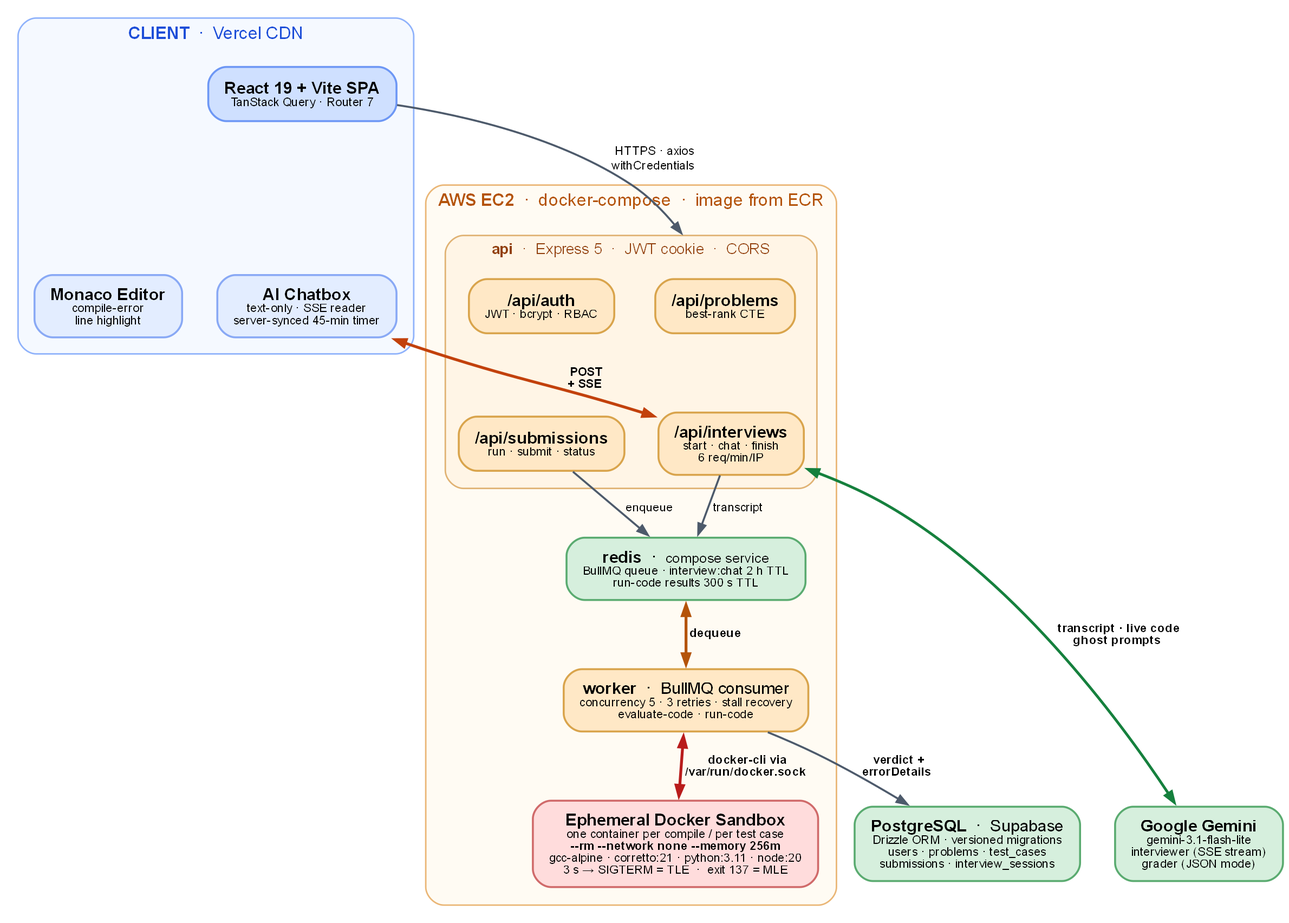
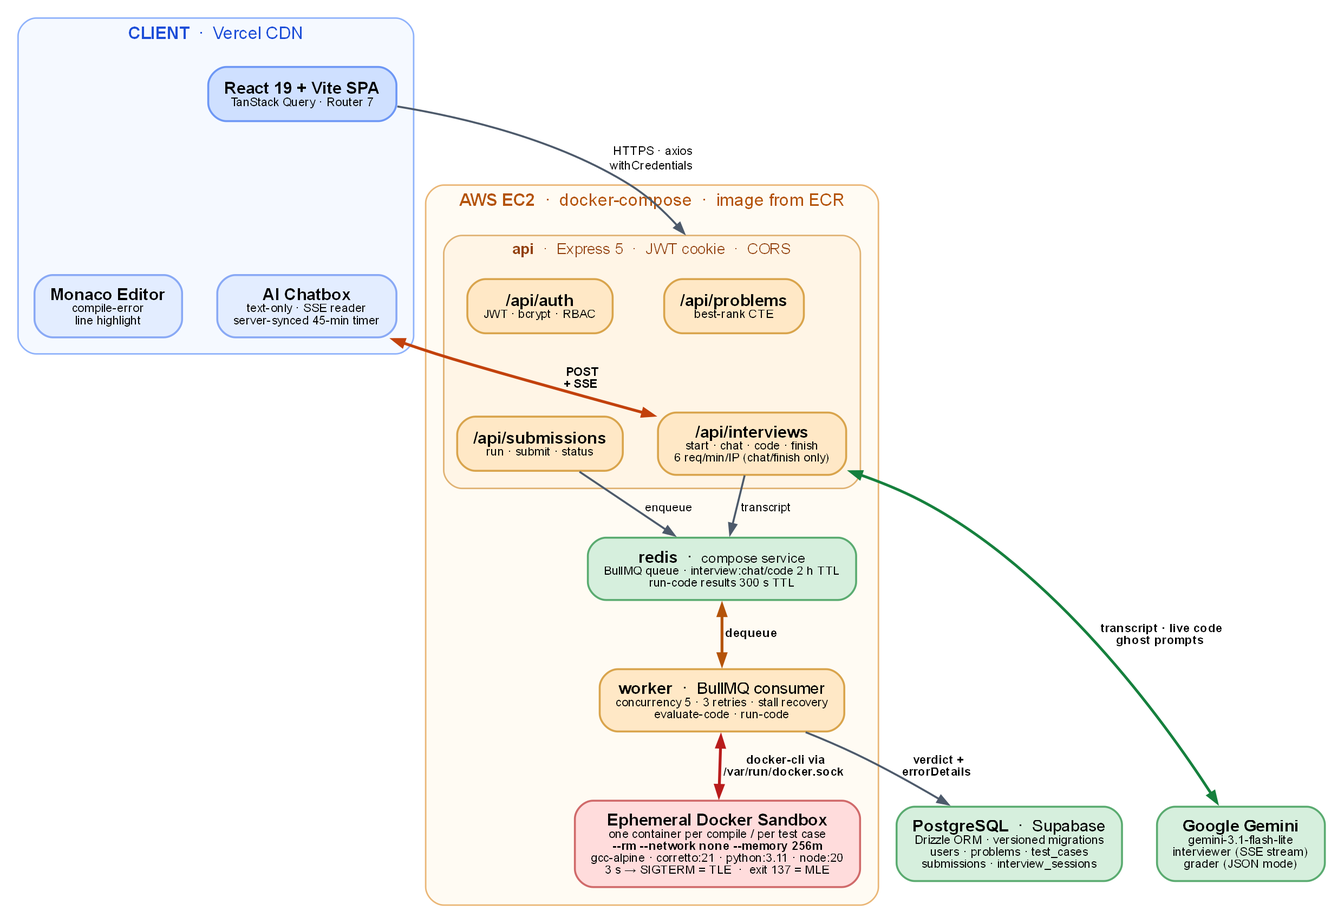
feat: added editor code and language rehydration upon reload (now, the code progress is also debounced by the frontend and auto-saved in the redis queue), updated the docs properly to reflect the changes done so far

diff --git a/backend/src/modules/interviews/interview.controller.js b/backend/src/modules/interviews/interview.controller.js
@@ -4,7 +4,7 @@ import { db } from "../../database/db_connector.js";
 import { problems, submissions, interviewSessions } from "../../database/schema.js";
 import { submissionQueue } from '../../queues/submissionQueue.js';
 
-import { appendChatMessage, getChatHistory, clearChatHistory } from "./cache.service.js";
+import { appendChatMessage, getChatHistory, clearChatHistory, getEditorState, saveEditorState, clearEditorState } from "./cache.service.js";
 import { getInterviewerStream } from "./llm.service.js";
 import { evaluateInterview, calculateGamifiedRank } from "./grading.service.js";
 
@@ -45,11 +45,15 @@ export const startInterview = async (req, res) => {
 
         if (existingSession && !isStale) {
             const chatHistory = await getChatHistory(existingSession.sessionId);
+            // The editor's contents are autosaved separately from the chat transcript, so a reload restores the candidate's code, not just the chat.
+            const editorState = await getEditorState(existingSession.sessionId);
             return res.status(200).json({
                 success: true,
                 sessionId: existingSession.sessionId,
                 startedAt: existingSession.startedAt,
                 chatHistory,
+                code: editorState?.code ?? null,
+                language: editorState?.language ?? null,
                 message: "Resumed existing interview session."
             });
         }
@@ -78,6 +82,8 @@ export const startInterview = async (req, res) => {
             sessionId: sessionId,
             startedAt: newSession.startedAt,
             chatHistory: [],
+            code: null,
+            language: null,
             message: "Interview session started successfully."
         });
     }
@@ -175,6 +181,40 @@ export const streamInterviewChat = async (req, res) => {
         if (!res.writableEnded) {
             res.end();
         }
+    }
+};
+
+/**
+ * Autosaves the candidate's live editor contents (code + language) so that a page reload
+ * or dropped connection can restore exactly what they were working on, not just the chat
+ * transcript. Called by the frontend on a debounce, not on every keystroke.
+ */
+export const saveCode = async (req, res) => {
+    try {
+        const userId = req.user.userId;
+        const { sessionId, problemId, code, language } = req.body;
+        if (!sessionId || !problemId || typeof code !== "string" || !language) {
+            return res.status(400).json({ error: "Missing required fields: sessionId, problemId, code, or language." });
+        }
+
+        const session = await db.query.interviewSessions.findFirst({
+            where: and(
+                eq(interviewSessions.sessionId, sessionId),
+                eq(interviewSessions.userId, userId),
+                eq(interviewSessions.problemId, problemId)
+            )
+        });
+        if (!session) {
+            return res.status(404).json({ error: "Interview session not found." });
+        }
+
+        await saveEditorState(sessionId, code, language);
+
+        return res.status(200).json({ success: true });
+    }
+    catch (error) {
+        console.error("Error in saveCode in Interview Controller:", error);
+        return res.status(500).json({ error: "An internal server error occurred while saving the editor state." });
     }
 };
 
@@ -306,6 +346,7 @@ export const finishInterviewAndGrade = async (req, res) => {
 
         // Cleaning up the Redis cache
         await clearChatHistory(sessionId);
+        await clearEditorState(sessionId);
 
         return res.status(200).json({
             success: true,

diff --git a/frontend/src/features/problems/pages/Arena.jsx b/frontend/src/features/problems/pages/Arena.jsx
@@ -52,6 +52,8 @@ const Arena = () => {
   const [isInterviewActive, setIsInterviewActive] = useState(false);
   const chatBoxRef = useRef(null); // Ref to shoot Ghost Prompts into the Chatbox
   const idleTimerRef = useRef(null); // Ref to store the inactivity timer
+  const codeSaveTimerRef = useRef(null); // Ref to store the debounced code-autosave timer
+  const sessionInitStartedRef = useRef(false); // Guards against StrictMode's double-invoke of the init effect in dev
   const [lastActivityTime, setLastActivityTime] = useState(() => Date.now()); // New state to track any user activity
 
   // --- Editor & Execution State ---
@@ -102,12 +104,25 @@ const Arena = () => {
         setSessionId(payload.sessionId);
         setSessionStartedAt(payload.startedAt || new Date().toISOString());
         setInitialChatHistory(Array.isArray(payload.chatHistory) ? payload.chatHistory : []);
+        // Restore the candidate's last autosaved editor contents on resume, so a reload
+        // brings back their code, not just the chat transcript.
+        if (payload.code) {
+          setCode(payload.code);
+          if (payload.language) {
+            setLanguage(payload.language);
+          }
+        }
         setIsInterviewActive(true);
       } catch (err) {
         console.error("Failed to start interview session", err);
       }
     };
-    if (problemId && !sessionId) {
+    // sessionInitStartedRef guards against React StrictMode's dev-only double-invoke of
+    // this effect: without it, both synchronous invocations would see sessionId as null
+    // and race two /start calls, creating two separate interview_sessions rows and
+    // leaving resume pointed at whichever one didn't actually get used.
+    if (problemId && !sessionId && !sessionInitStartedRef.current) {
+      sessionInitStartedRef.current = true;
       initializeSession();
     }
   }, [problemId, sessionId]);
@@ -116,6 +131,25 @@ const Arena = () => {
   const handleUserActivity = () => {
     setLastActivityTime(Date.now());
   };
+
+  // Editor Autosave: debounce writes of the live code + language to the backend so a
+  // reload (or the /start resume path) can restore exactly what the candidate was typing,
+  // not just the chat transcript. Debounced rather than saved on every keystroke to avoid
+  // hammering the API while the candidate is actively typing.
+  useEffect(() => {
+    if (!isInterviewActive || !sessionId) return;
+
+    if (codeSaveTimerRef.current) {
+      clearTimeout(codeSaveTimerRef.current);
+    }
+
+    codeSaveTimerRef.current = setTimeout(() => {
+      apiClient.post('/api/interviews/code', { sessionId, problemId, code, language })
+        .catch((err) => console.error("Failed to autosave editor state", err));
+    }, 2000); // 2 seconds after the candidate stops typing or changes language
+
+    return () => clearTimeout(codeSaveTimerRef.current);
+  }, [code, language, isInterviewActive, sessionId, problemId]);
 
   // Inactivity Ghost Prompt: If the user hasn't typed for 5 minutes, check in.
   useEffect(() => {
@@ -412,7 +446,7 @@ const Arena = () => {
           </button>
           <span className="text-gray-500">|</span>
           <span className="text-white font-bold tracking-wide">
-            <span className="text-blue-400">Ascend</span> — Mock Interview Mode
+            <span className="text-blue-400">Ascend</span>: Mock Interview Mode
           </span>
         </div>
 

diff --git a/backend/src/modules/interviews/cache.service.js b/backend/src/modules/interviews/cache.service.js
@@ -89,9 +89,83 @@ export const clearChatHistory = async (sessionId) => {
 
     try {
         await redisConnection.del(key);
-    } 
+    }
     catch (error) {
         // This is a non-fatal error for the user, but critical for system health monitoring.
         console.error(`CRITICAL: Failed to clear chat history for session ${sessionId}. This may indicate a Redis connectivity issue.`, error);
     }
 }
+
+/**
+ * Generates a consistent Redis key for an interview session's editor state.
+ * @param {string} sessionId
+ * @returns {string} The Redis key.
+ */
+const generateRedisCodeKey = (sessionId) => `interview:code:${sessionId}`;
+
+/**
+ * Fetches the last autosaved editor state (code + language) from Redis.
+ * @param {string} sessionId - The unique identifier for the interview session.
+ * @returns {Promise<{code: string, language: string}|null>}
+ */
+export const getEditorState = async (sessionId) => {
+    if (!sessionId) {
+        console.error("getEditorState called without a sessionId.");
+        return null;
+    }
+
+    const key = generateRedisCodeKey(sessionId);
+
+    try {
+        const data = await redisConnection.get(key);
+        return data ? JSON.parse(data) : null;
+    }
+    catch (error) {
+        console.error(`Error fetching or parsing editor state for sessionId ${sessionId}:`, error);
+        return null;
+    }
+};
+
+/**
+ * Autosaves the candidate's current editor contents to Redis, so a page reload can
+ * restore exactly what they were typing, not just the chat transcript.
+ * @param {string} sessionId - The unique identifier for the interview session.
+ * @param {string} code - The live contents of the Monaco editor.
+ * @param {string} language - The currently selected language.
+ */
+export const saveEditorState = async (sessionId, code, language) => {
+    if (!sessionId || typeof code !== "string" || !language) {
+        console.error("saveEditorState called with missing parameters.", { sessionId, hasCode: typeof code === "string", language });
+        return;
+    }
+
+    const key = generateRedisCodeKey(sessionId);
+
+    try {
+        await redisConnection.set(key, JSON.stringify({ code, language }), "EX", INTERVIEW_TTL);
+    }
+    catch (error) {
+        console.error(`Error saving editor state for sessionId ${sessionId}:`, error);
+        throw new Error("Failed to save editor state to cache.");
+    }
+};
+
+/**
+ * Deletes the autosaved editor state from Redis for a given session.
+ * @param {string} sessionId - The unique identifier for the interview session.
+ */
+export const clearEditorState = async (sessionId) => {
+    if (!sessionId) {
+        console.warn("clearEditorState called with no sessionId.");
+        return;
+    }
+
+    const key = generateRedisCodeKey(sessionId);
+
+    try {
+        await redisConnection.del(key);
+    }
+    catch (error) {
+        console.error(`CRITICAL: Failed to clear editor state for session ${sessionId}. This may indicate a Redis connectivity issue.`, error);
+    }
+};

diff --git a/backend/src/modules/interviews/interview.routes.js b/backend/src/modules/interviews/interview.routes.js
@@ -1,7 +1,7 @@
 import express from 'express';
 import rateLimit from 'express-rate-limit';
 import {requireAuth} from "../../middlewares/auth.middleware.js";
-import {startInterview, streamInterviewChat, finishInterviewAndGrade} from "./interview.controller.js";
+import {startInterview, streamInterviewChat, finishInterviewAndGrade, saveCode} from "./interview.controller.js";
 
 const router = express.Router();
 
@@ -16,8 +16,11 @@ const interviewLimiter = rateLimit({
     legacyHeaders: false, 
 });
 
-// Route to initialize the interview session (Lightweight, standard auth)
-router.post("/start", requireAuth, startInterview);
+// Route to initialize the interview session
+router.post("/start", requireAuth, interviewLimiter, startInterview);
+
+// Route to autosave the live editor contents (No need to rate limit this, since no AI call is involved; and the frontend already debounces it)
+router.post("/code", requireAuth, saveCode);
 
 // Chatting route using Server-Sent Events (SSE) (Protected by Rate Limiter)
 router.post("/chat", requireAuth, interviewLimiter, streamInterviewChat);

diff --git a/docs/HLD.md b/docs/HLD.md
@@ -1,12 +1,12 @@
 # **Ascend: The Next Generation Interviewer — High-Level Design (HLD)**
 
-*Version 2.0 — AI Interviewer Integration, updated with session resilience (server-authoritative timer, resumable sessions on reload) and adaptive interview pacing. This document supersedes the V1 HLD and describes the system as it is currently deployed.*
+*Version 2.0 — AI Interviewer Integration, updated with session resilience (server-authoritative timer, resumable sessions on reload including the candidate's chat history and code editor state) and adaptive interview pacing. This document supersedes the V1 HLD and describes the system as it is currently deployed.*
 
 ## **0\. High-Level Architecture Diagram**
 
 ![Ascend — end-to-end system architecture.](architecture.png)
 
-The diagram reads top to bottom as a request flows through the system. The **React client** on Vercel reaches the **Express API** over credentialed HTTPS, except for the interview conversation, which is a POST that stays open as a Server-Sent Events stream (the orange path). Anything that executes code is never run inline: `/api/submissions` and `/api/interviews` both write to **Redis**, which serves simultaneously as the BullMQ queue, the live interview transcript store, and the run-result cache. The **worker** dequeues and drives the **ephemeral Docker sandboxes** through the host's Docker socket — the red path, and the only place in the system where untrusted code executes.
+The diagram reads top to bottom as a request flows through the system. The **React client** on Vercel reaches the **Express API** over credentialed HTTPS, except for the interview conversation, which is a POST that stays open as a Server-Sent Events stream (the orange path). Anything that executes code is never run inline: `/api/submissions` and `/api/interviews` both write to **Redis**, which serves simultaneously as the BullMQ queue, the live interview transcript and editor-state store, and the run-result cache. The **worker** dequeues and drives the **ephemeral Docker sandboxes** through the host's Docker socket — the red path, and the only place in the system where untrusted code executes.
 
 Two boundaries are worth reading carefully. Everything inside the **AWS EC2** box is a `docker-compose` service on a single instance, including Redis — only PostgreSQL and Gemini are genuinely external. And the sandbox is the sole component reached via `/var/run/docker.sock`; the API container has no access to the Docker daemon at all.
 
@@ -157,8 +157,9 @@ Every route below is authenticated except the health check and the two public au
 
 | Endpoint | HTTP Method | Purpose   |
 | :---- | :---- | :---- |
-| /api/interviews/start | POST | Create a new `interview_sessions` row and return the `sessionId` that the frontend persists and attaches to every subsequent call. |
+| /api/interviews/start | POST | Resume an existing unfinished session for this user + problem if one exists — returning its `sessionId`, `startedAt`, saved chat transcript, and saved editor state (§5.1) — otherwise create a new `interview_sessions` row. Rate limited. |
 | /api/interviews/chat | POST | **Server-Sent Events stream.** Appends the candidate's message to the Redis transcript, calls Gemini with the full history plus the live editor contents, and streams the reply back token-by-token. Rate limited. |
+| /api/interviews/code | POST | Autosaves the candidate's live editor contents (code + language) to Redis on a debounce, so a reload restores exactly what they were typing (§6.3). Not rate limited — it's a cheap cache write, not an AI call. |
 | /api/interviews/finish | POST | Snapshot the final code, guarantee that a graded verdict exists, run the AI grader, map the score to a rank, and atomically persist everything. Rate limited. |
 
 ### **3.5 System**
@@ -223,9 +224,9 @@ This is the defining addition of V2. The Coding Arena is no longer a solitary ed
 
 ### **5.1 Session Lifecycle**
 
-1. **Start (with resume).** The candidate opens a problem and the frontend calls `POST /api/interviews/start` on mount. The server first looks for an existing, unfinished session (`ended_at IS NULL`) for that user and problem. If one exists and is younger than the 45-minute session length plus a 5-minute grace window, it is handed back as-is — `sessionId`, `startedAt`, and the archived Redis transcript — so a page reload or a dropped connection resumes exactly where the candidate left off instead of silently starting over. Otherwise a fresh row is inserted into `interview_sessions` with `ended_at` NULL. A session past the grace window is closed out server-side (`ended_at` set, Redis cache cleared) before a new one is created, so an abandoned tab can never permanently block a candidate from starting again.  
-2. **Live phase.** Every chat turn hits `POST /api/interviews/chat`. The server verifies that the session belongs to the requesting user *and* the requested problem before touching the LLM. Each message appended to the Redis transcript is stamped with a `createdAt` timestamp and an `isGhost` flag (§5.3), which together drive both session-pacing awareness (§5.2) and faithful UI hydration on resume. The transcript lives in Redis under `interview:chat:<sessionId>` with a **2-hour TTL**, so a truly abandoned interview still evicts itself from memory automatically.  
-3. **Finish.** Triggered either by the 45-minute timer expiring or by the candidate pressing "End Interview". The server snapshots the code, grades the transcript, persists the result, and deletes the Redis key.
+1. **Start (with resume).** The candidate opens a problem and the frontend calls `POST /api/interviews/start` on mount. The server first looks for an existing, unfinished session (`ended_at IS NULL`) for that user and problem. If one exists and is younger than the 45-minute session length plus a 5-minute grace window, it is handed back as-is — `sessionId`, `startedAt`, the archived Redis transcript, and the last autosaved editor state (code + language, see step 2) — so a page reload or a dropped connection resumes exactly where the candidate left off, code included, instead of silently starting over. Otherwise a fresh row is inserted into `interview_sessions` with `ended_at` NULL. A session past the grace window is closed out server-side (`ended_at` set, Redis caches cleared) before a new one is created, so an abandoned tab can never permanently block a candidate from starting again.  
+2. **Live phase.** Every chat turn hits `POST /api/interviews/chat`. The server verifies that the session belongs to the requesting user *and* the requested problem before touching the LLM. Each message appended to the Redis transcript is stamped with a `createdAt` timestamp and an `isGhost` flag (§5.3), which together drive both session-pacing awareness (§5.2) and faithful UI hydration on resume. The transcript lives in Redis under `interview:chat:<sessionId>` with a **2-hour TTL**, so a truly abandoned interview still evicts itself from memory automatically. Independently, the Monaco editor's contents are autosaved to Redis on a debounce via `POST /api/interviews/code` — under `interview:code:<sessionId>`, same 2-hour TTL — so the candidate's code survives a reload the same way the chat transcript does (§6.3).  
+3. **Finish.** Triggered either by the 45-minute timer expiring or by the candidate pressing "End Interview". The server snapshots the code, grades the transcript, persists the result, and deletes both Redis keys.
 
 ### **5.2 The Interviewer: A Prompt-Enforced State Machine**
 
@@ -316,7 +317,11 @@ A 45-minute (2,700-second) countdown drives the session, computed on every tick 
 
 ### **6.3 Session Lifetime & Resume**
 
-The `sessionId` lives purely in React state — nothing about the live interview is trusted to browser storage. On mount, the Arena always calls `POST /api/interviews/start`, but the *server* decides whether that returns a brand-new session or resumes an existing one (§5.1): a page refresh, a dropped connection, or an accidental tab close no longer discards progress. On resume, the response's archived transcript rehydrates the chat UI (filtered down to real, candidate-facing turns — see §5.3) and its `startedAt` re-anchors the countdown timer (§6.2), so the Arena reconstructs itself to look exactly as it did before the reload. The authoritative transcript still lives in Redis and the session row in PostgreSQL; a session that goes untouched long enough to exceed the interview length plus a grace window is treated as abandoned and closed out rather than resumed indefinitely, and the Redis transcript is still reclaimed by its 2-hour TTL as a backstop.
+The `sessionId` lives purely in React state — nothing about the live interview is trusted to browser storage. On mount, the Arena always calls `POST /api/interviews/start`, but the *server* decides whether that returns a brand-new session or resumes an existing one (§5.1): a page refresh, a dropped connection, or an accidental tab close no longer discards progress. On resume, the response's archived transcript rehydrates the chat UI (filtered down to real, candidate-facing turns — see §5.3), its saved editor state rehydrates the Monaco editor's code *and* selected language, and its `startedAt` re-anchors the countdown timer (§6.2) — so the Arena reconstructs itself to look exactly as it did before the reload, code included. The authoritative transcript and editor state still live in Redis and the session row in PostgreSQL; a session that goes untouched long enough to exceed the interview length plus a grace window is treated as abandoned and closed out rather than resumed indefinitely, and both Redis caches are still reclaimed by their 2-hour TTL as a backstop.
+
+The session-init effect is guarded against firing twice on mount (a React StrictMode dev-only artifact where effects double-invoke) with a ref flag, mirroring the same pattern `AiChatbox` already used for its own kickoff message — without it, two near-simultaneous `/start` calls could each create a separate `interview_sessions` row, and resume (which picks the most recently *started* session) could end up pointing at whichever one the candidate never actually interacted with.
+
+**Editor autosave.** The Monaco editor's `code` and `language` are debounced 2 seconds after the last change and sent to `POST /api/interviews/code`, independently of chat activity — earlier versions only sent `currentCode` alongside chat turns, which meant a candidate who typed for a while without triggering any chat interaction had nothing to resume. The debounce keeps this to roughly one write every 2 seconds of active typing rather than one per keystroke.
 
 ### **6.4 Navigation Guard**
 
@@ -393,7 +398,7 @@ To ensure the Online Judge remains stable during peak traffic and unexpected sys
 * **Docker Startup Failures:** If the Docker daemon cannot allocate a container due to host resource exhaustion, the worker catches the exception via a strict try-catch block instead of crashing, and writes **Internal System Error** along with the error message into `error_details`, ensuring the UI can still inform the candidate.  
 * **Evaluation Timeouts During Grading:** The finish route's verdict poll gives up after 20 seconds and returns a clean 500 rather than hanging the request indefinitely.  
 * **AI Failures:** A malformed or incomplete Gemini payload is rejected before it reaches the database. Errors occurring mid-stream are delivered as an in-band SSE error frame followed by `[DONE]`, so the chat UI never freezes.  
-* **Abandoned Sessions:** The 2-hour Redis TTL reclaims memory from interviews that are simply walked away from, and any `interview_sessions` row still unfinished past the 45-minute-plus-grace window is closed out server-side the next time that user starts an interview, so it can never permanently block a fresh attempt.  
+* **Abandoned Sessions:** The 2-hour Redis TTLs on both the chat transcript and the autosaved editor state reclaim memory from interviews that are simply walked away from, and any `interview_sessions` row still unfinished past the 45-minute-plus-grace window is closed out server-side the next time that user starts an interview, so it can never permanently block a fresh attempt.  
 * **Database Rollback:** If enqueueing an evaluation job fails after the submission row has been written, that row is deleted, so a user never sees a submission permanently stuck at *Pending*.  
 * **Graceful Shutdown:** On SIGINT the process closes the BullMQ queue and the PostgreSQL pool before exiting, avoiding half-written jobs and leaked connections.
 

diff --git a/README.md b/README.md
@@ -40,6 +40,7 @@ Underneath it is a full online judge — sandboxed multi-language execution, hid
 - **Token-by-token streaming** over Server-Sent Events, so replies appear as they are generated.
 - **Text-based, not voice.** The entire interview — your explanations, the interviewer's questions and follow-ups — happens through typed chat. There is no speech-to-text or text-to-speech in this version, so it does not yet test verbal communication the way a live phone screen does.
 - **Resumable, server-timed sessions.** The 45-minute countdown is anchored to a server-recorded start time, not a local counter — a page reload or dropped connection resumes the same session, transcript and remaining time intact, instead of resetting to a fresh interview.
+- **Your code survives a reload too.** The editor's contents and selected language are autosaved to Redis on a debounce, independently of chat activity, and restored on resume alongside the transcript and timer — so a refresh never costs you your in-progress solution.
 - **Explicit exits.** Navigating away from a live interview raises a three-way guard: stay, leave ungraded, or end and grade. Nothing about the session is kept in browser storage — the transcript lives in Redis and the session row in Postgres.
 
 ### The Judge
@@ -306,8 +307,9 @@ All routes require the JWT cookie except `POST /api/auth/register`, `POST /api/a
 
 | Method | Endpoint | Description |
 | :---- | :---- | :---- |
-| `POST` | `/api/interviews/start` | Resume an existing unfinished session for this user + problem if one exists (returns its `sessionId`, `startedAt`, and saved transcript); otherwise create a new one. |
+| `POST` | `/api/interviews/start` | Resume an existing unfinished session for this user + problem if one exists (returns its `sessionId`, `startedAt`, saved transcript, and saved editor code & language); otherwise create a new one. Rate limited to 6/min/IP. |
 | `POST` | `/api/interviews/chat` | SSE stream of the interviewer's reply. Rate limited to 6/min/IP. |
+| `POST` | `/api/interviews/code` | Autosave the live editor contents (debounced client-side). Not rate limited. |
 | `POST` | `/api/interviews/finish` | Snapshot, judge, grade, rank, and persist. Rate limited to 6/min/IP. |
 
 ### System
